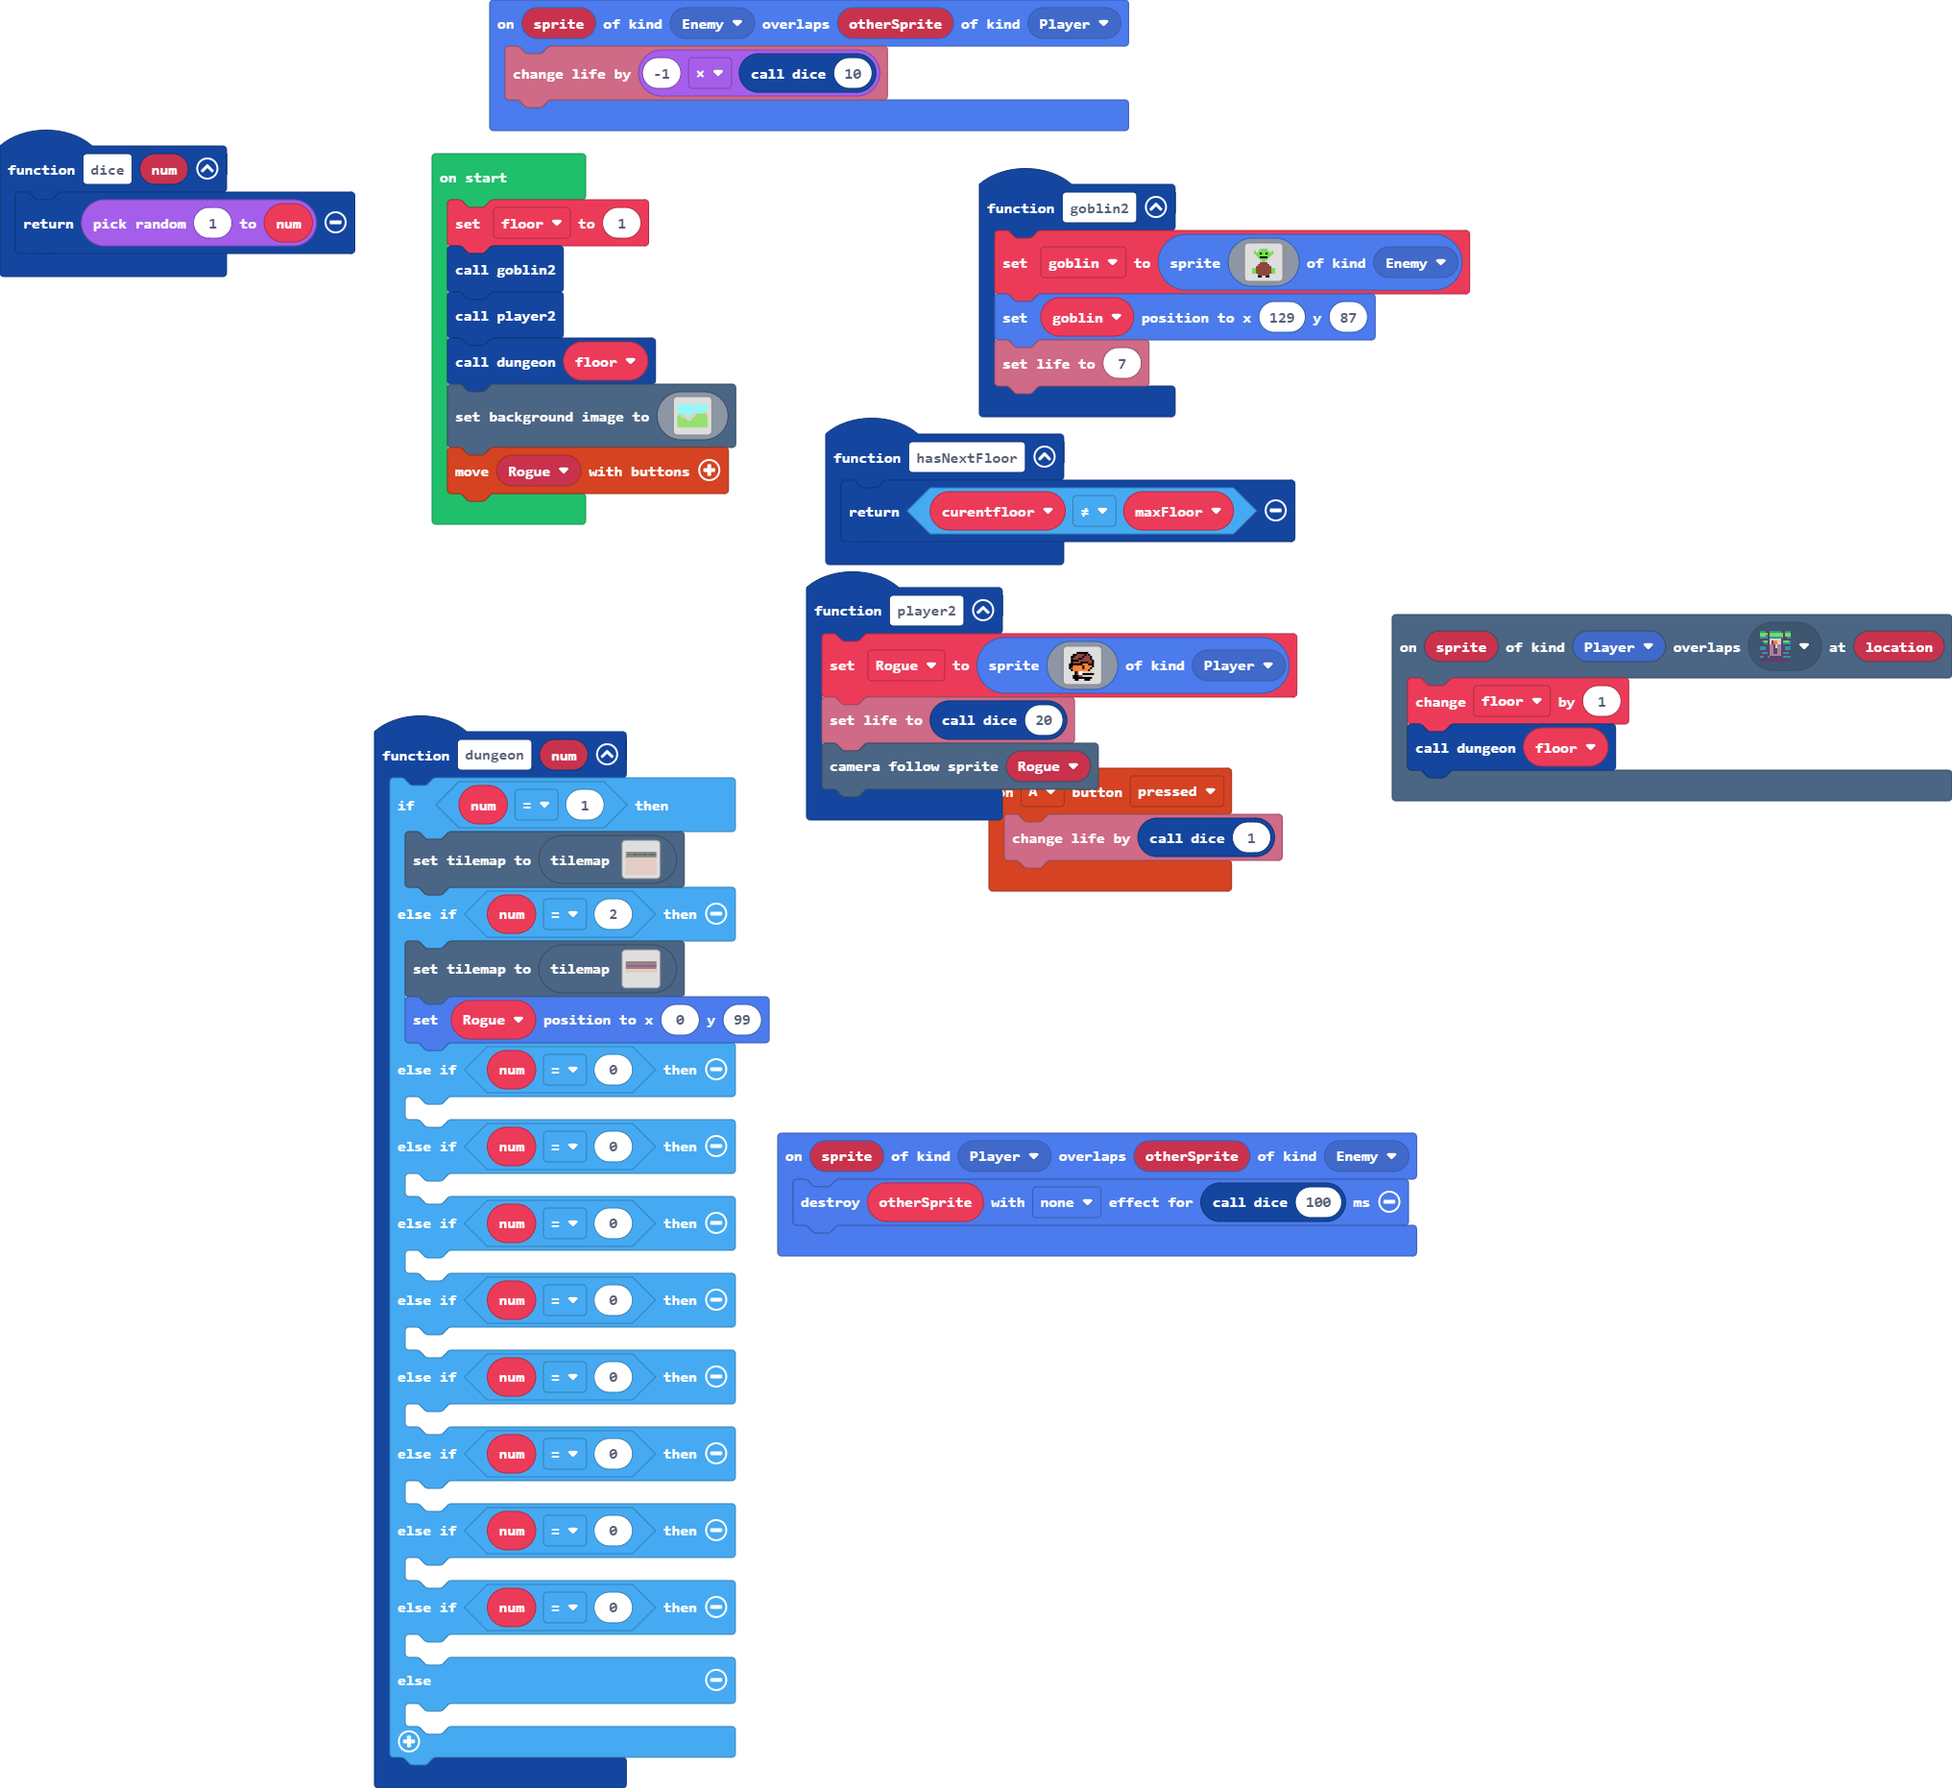
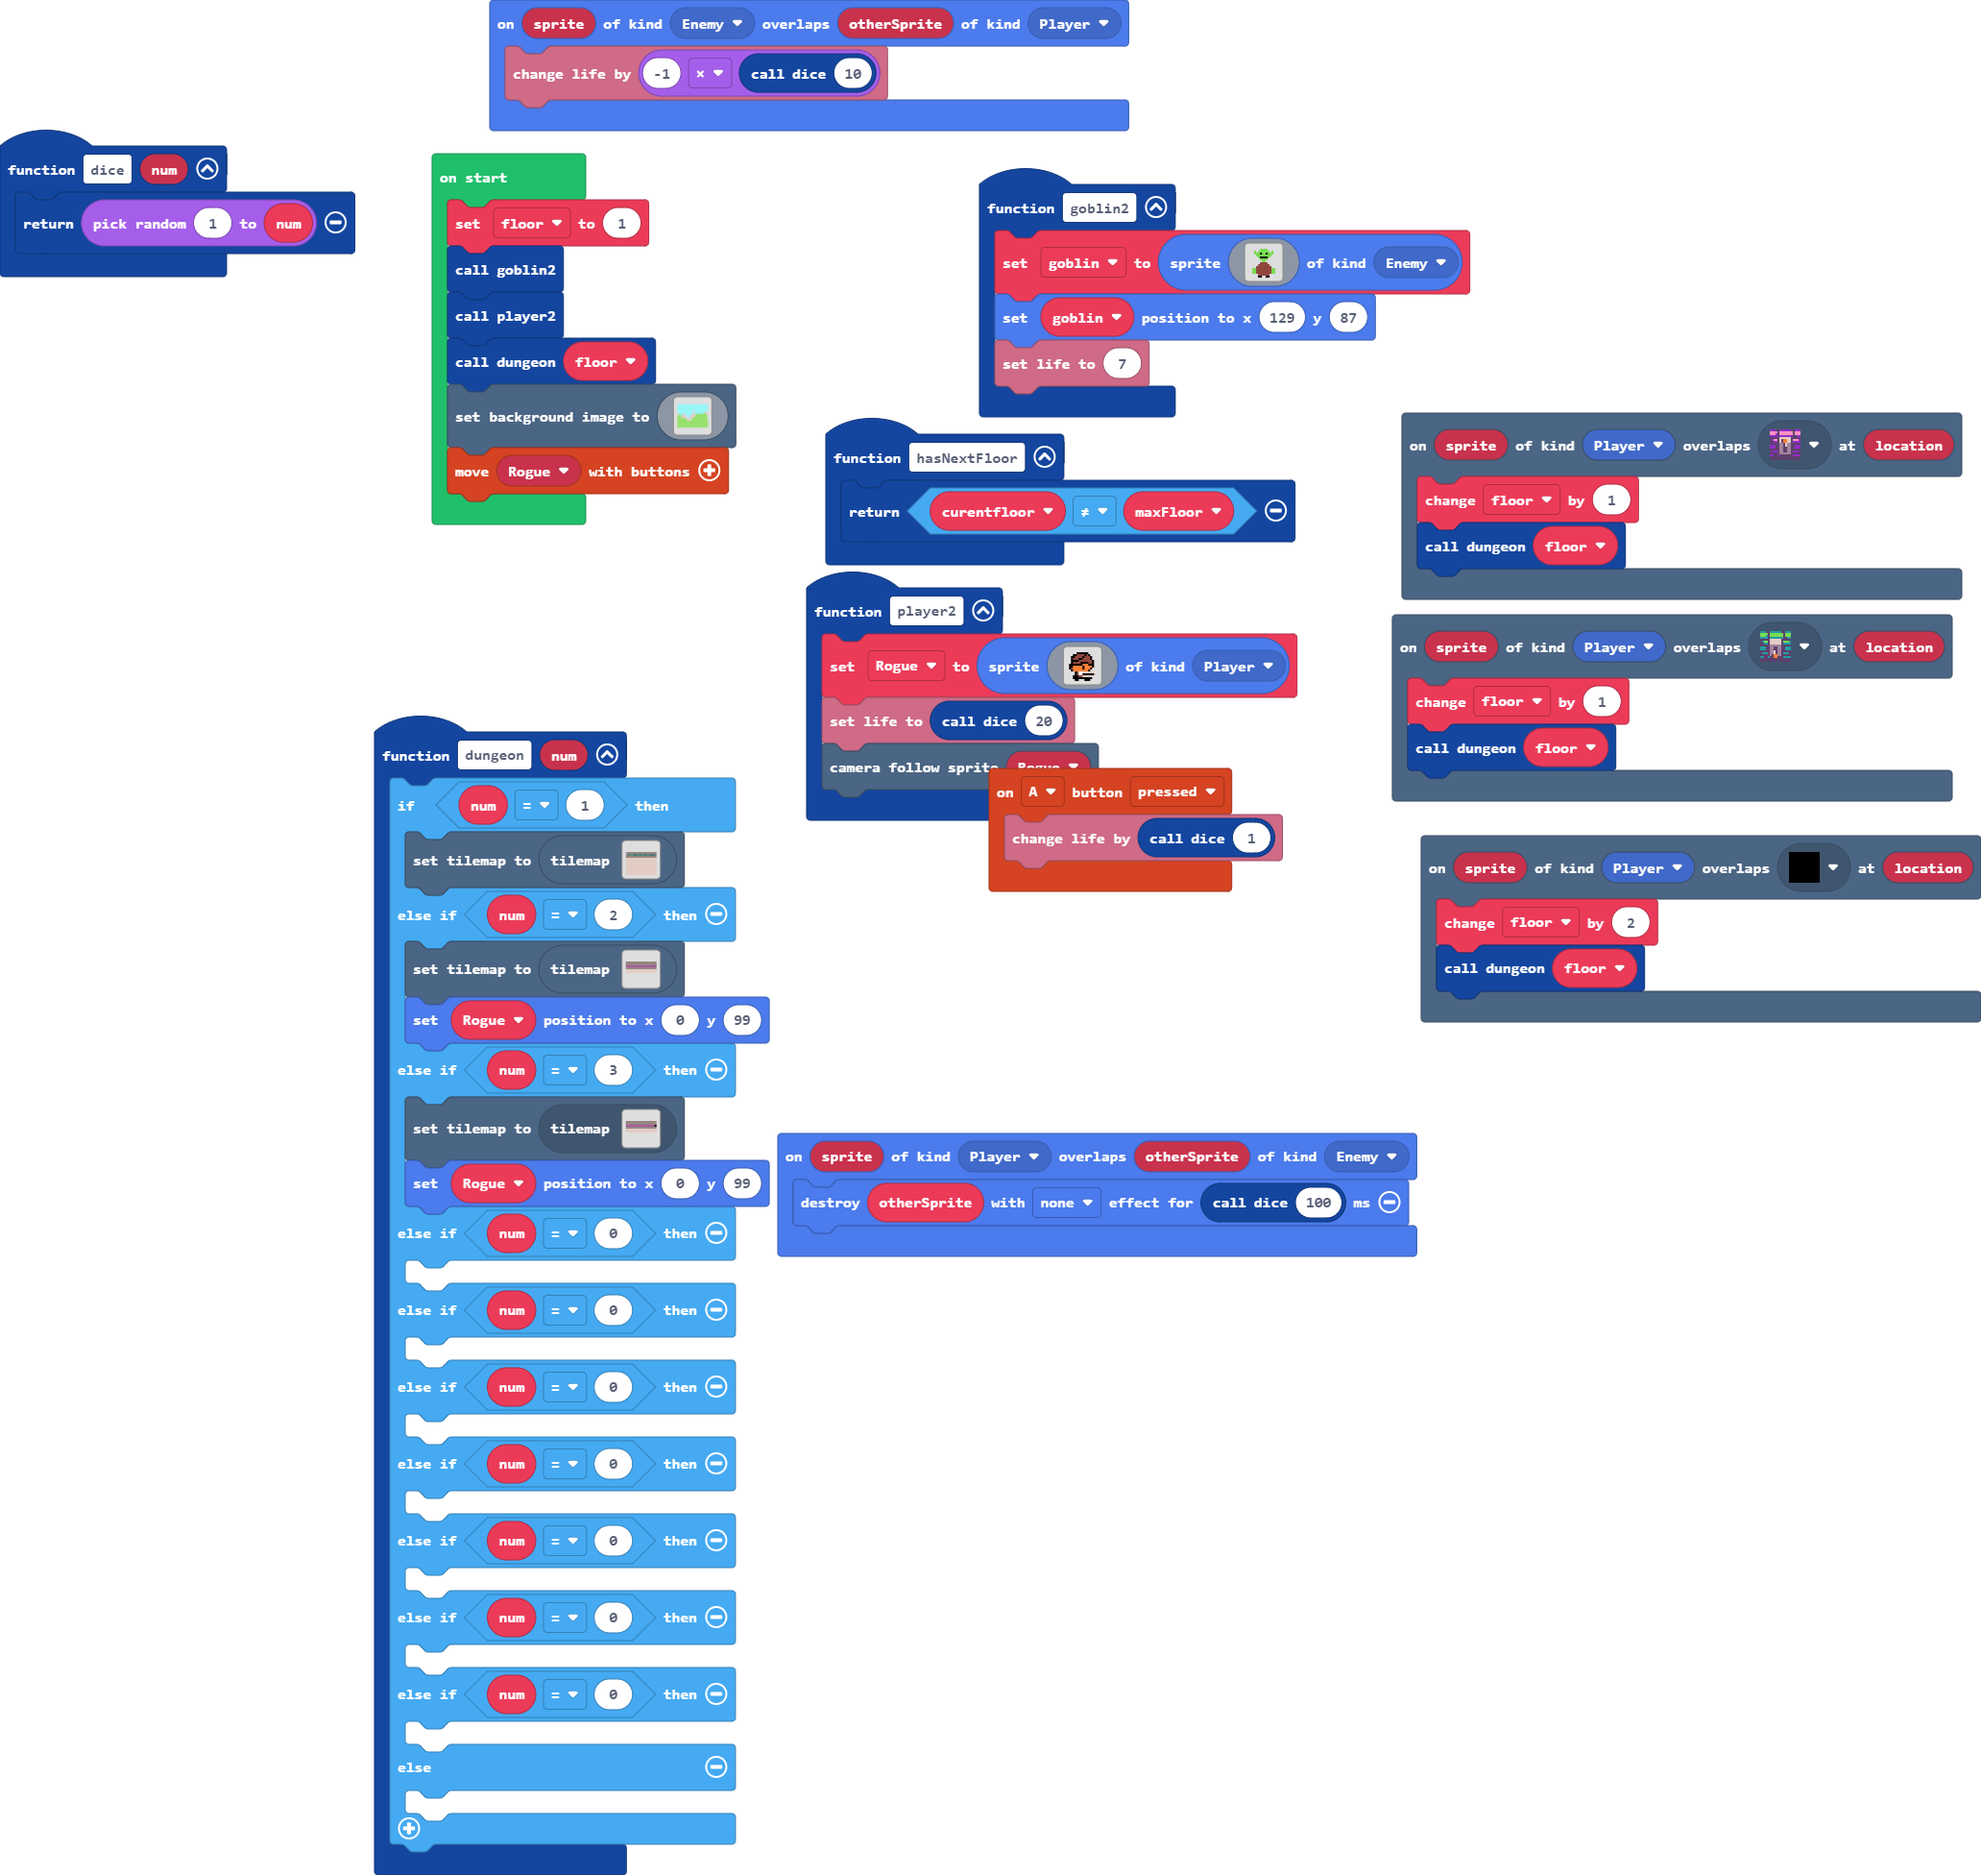
new floor

Changed region(s): [[0.1859, 0.0, 1.0, 1.0], [0.0, 0.0623, 0.1859, 0.1557]]

diff --git a/tilemap.g.ts b/tilemap.g.ts
@@ -32,6 +32,8 @@ namespace myTiles {
     export const tile14 = image.ofBuffer(hex``);
     //% fixedInstance jres blockIdentity=images._tile
     export const tile15 = image.ofBuffer(hex``);
+    //% fixedInstance jres blockIdentity=images._tile
+    export const tile16 = image.ofBuffer(hex``);
 
     helpers._registerFactory("tilemap", function(name: string) {
         switch(helpers.stringTrim(name)) {
@@ -111,44 +113,6 @@ namespace myTiles {
 . . . . . . . . . . . . . . . . 
 . . . . . . . . . . . . . . . . 
 `, [myTiles.transparency16], TileScale.Sixteen);
-            case "level4":
-            case "level4":return tiles.createTilemap(hex`1000100000000000000000000000000000000000000000000000000000000000000000000000000000000000000000000000000000000000000000000000000000000000010101010101010101010101010101010101010101010101010101010101010102020202020202020202020202020203010101010101010101010101010101010404040404040404040404040404040404040404040404040404040404040404000000000000000000000000000000000000000000000000000000000000000000000000000000000000000000000000000000000000000000000000000000000000000000000000000000000000000000000000000000000000000000000000`, img`
-. . . . . . . . . . . . . . . . 
-. . . . . . . . . . . . . . . . 
-. . . . . . . . . . . . . . . . 
-. . . . . . . . . . . . . . . . 
-2 2 2 2 2 2 2 2 2 2 2 2 2 2 2 2 
-2 2 2 2 2 2 2 2 2 2 2 2 2 2 2 2 
-. . . . . . . . . . . . . . . . 
-2 2 2 2 2 2 2 2 2 2 2 2 2 2 2 2 
-2 2 2 2 2 2 2 2 2 2 2 2 2 2 2 2 
-2 2 2 2 2 2 2 2 2 2 2 2 2 2 2 2 
-2 2 2 2 2 2 2 2 2 2 2 2 2 2 2 2 
-2 2 2 2 2 2 2 2 2 2 2 2 2 2 2 2 
-2 2 2 2 2 2 2 2 2 2 2 2 2 2 2 2 
-2 2 2 2 2 2 2 2 2 2 2 2 2 2 2 2 
-2 2 2 2 2 2 2 2 2 2 2 2 2 2 2 2 
-2 2 2 2 2 2 2 2 2 2 2 2 2 2 2 2 
-`, [myTiles.transparency16,myTiles.tile1,myTiles.tile11,myTiles.tile13,sprites.castle.tilePath5], TileScale.Sixteen);
-            case "level1":
-            case "level1":return tiles.createTilemap(hex`1000100000000000000000000000000000000000000000000000000000000000000000000000000000000000000000000000000000000000000000000000000000000000060101010101010101010101010101010703050503030503050303050303030401010101010101010101010101010101020202020202020202020202020202020202020202020202020202020202020202020202020202020202020202020202020202020202020202020202020202020202020202020202020202020202020202020202020202020202020202020202020202020202020202020202020202020202020202020202020202020202020202020202020202020202020202020202`, img`
-2 2 2 2 2 2 2 2 2 2 2 2 2 2 2 2 
-2 2 2 2 2 2 2 2 2 2 2 2 2 2 2 2 
-2 2 2 2 2 2 2 2 2 2 2 2 2 2 2 2 
-. . . . . . . . . . . . . . . . 
-. 2 2 2 2 2 2 2 2 2 2 2 2 2 2 2 
-. . . . . . . . . . . . . . . . 
-2 2 2 2 2 2 2 2 2 2 2 2 2 2 2 2 
-2 2 2 2 2 2 2 2 2 2 2 2 2 2 2 2 
-2 2 2 2 2 2 2 2 2 2 2 2 2 2 2 2 
-2 2 2 2 2 2 2 2 2 2 2 2 2 2 2 2 
-2 2 2 2 2 2 2 2 2 2 2 2 2 2 2 2 
-2 2 2 2 2 2 2 2 2 2 2 2 2 2 2 2 
-2 2 2 2 2 2 2 2 2 2 2 2 2 2 2 2 
-2 2 2 2 2 2 2 2 2 2 2 2 2 2 2 2 
-2 2 2 2 2 2 2 2 2 2 2 2 2 2 2 2 
-2 2 2 2 2 2 2 2 2 2 2 2 2 2 2 2 
-`, [myTiles.transparency16,myTiles.tile1,sprites.castle.tilePath5,myTiles.tile5,myTiles.tile7,myTiles.tile9,myTiles.tile14,myTiles.tile15], TileScale.Sixteen);
             case "level7":
             case "level7":return tiles.createTilemap(hex`1000100000000000000000000000000000000000000000000000000000000000000000000000000000000000000000000000000000000000000000000000000000000000000000000000000000000000000000000000000000000000000000000000000000000000000000000000000000000000000000000000000000000000000000000000000000000000000000000000000000000000000000000000000000000000000000000000000000000000000000000000000000000000000000000000000000000000000000000000000000000000000000000000000000000000000000000000000000000000000000000000000000000000000000000000000000000000`, img`
 . . . . . . . . . . . . . . . . 
@@ -187,6 +151,101 @@ namespace myTiles {
 . . . . . . . . . . . . . . . . 
 . . . . . . . . . . . . . . . . 
 `, [myTiles.transparency16], TileScale.Sixteen);
+            case "level9":
+            case "level9":return tiles.createTilemap(hex`1000100000000000000000000000000000000000000000000000000000000000000000000000000000000000000000000000000000000000000000000000000000000000000000000000000000000000000000000000000000000000000000000000000000000000000000000000000000000000000000000000000000000000000000000000000000000000000000000000000000000000000000000000000000000000000000000000000000000000000000000000000000000000000000000000000000000000000000000000000000000000000000000000000000000000000000000000000000000000000000000000000000000000000000000000000000000000`, img`
+. . . . . . . . . . . . . . . . 
+. . . . . . . . . . . . . . . . 
+. . . . . . . . . . . . . . . . 
+. . . . . . . . . . . . . . . . 
+. . . . . . . . . . . . . . . . 
+. . . . . . . . . . . . . . . . 
+. . . . . . . . . . . . . . . . 
+. . . . . . . . . . . . . . . . 
+. . . . . . . . . . . . . . . . 
+. . . . . . . . . . . . . . . . 
+. . . . . . . . . . . . . . . . 
+. . . . . . . . . . . . . . . . 
+. . . . . . . . . . . . . . . . 
+. . . . . . . . . . . . . . . . 
+. . . . . . . . . . . . . . . . 
+. . . . . . . . . . . . . . . . 
+`, [myTiles.transparency16], TileScale.Sixteen);
+            case "level4":
+            case "level4":return tiles.createTilemap(hex`1000100000000000000000000000000000000000000000000000000000000000000000000000000000000000000000000000000000000000000000000000000000000000010101010101010101010101010101010101010101010101010101010101010102020202020202020202020202020203010101010101010101010101010101010404040404040404040404040404040404040404040404040404040404040404000000000000000000000000000000000000000000000000000000000000000000000000000000000000000000000000000000000000000000000000000000000000000000000000000000000000000000000000000000000000000000000000`, img`
+2 2 2 2 2 2 2 2 2 2 2 2 2 2 2 2 
+2 2 2 2 2 2 2 2 2 2 2 2 2 2 2 2 
+2 2 2 2 2 2 2 2 2 2 2 2 2 2 2 2 
+2 2 2 2 2 2 2 2 2 2 2 2 2 2 2 2 
+2 2 2 2 2 2 2 2 2 2 2 2 2 2 2 2 
+2 2 2 2 2 2 2 2 2 2 2 2 2 2 2 2 
+. . . . . . . . . . . . . . . . 
+2 2 2 2 2 2 2 2 2 2 2 2 2 2 2 2 
+2 2 2 2 2 2 2 2 2 2 2 2 2 2 2 2 
+2 2 2 2 2 2 2 2 2 2 2 2 2 2 2 2 
+2 2 2 2 2 2 2 2 2 2 2 2 2 2 2 2 
+2 2 2 2 2 2 2 2 2 2 2 2 2 2 2 2 
+2 2 2 2 2 2 2 2 2 2 2 2 2 2 2 2 
+2 2 2 2 2 2 2 2 2 2 2 2 2 2 2 2 
+2 2 2 2 2 2 2 2 2 2 2 2 2 2 2 2 
+2 2 2 2 2 2 2 2 2 2 2 2 2 2 2 2 
+`, [myTiles.transparency16,myTiles.tile1,myTiles.tile11,myTiles.tile13,sprites.castle.tilePath5], TileScale.Sixteen);
+            case "level11":
+            case "level11":return tiles.createTilemap(hex`1000100000000000000000000000000000000000000000000000000000000000000000000000000000000000000000000000000000000000000000000000000000000000000000000000000000000000000000000000000000000000000000000000000000000000000000000000000000000000000000000000000000000000000000000000000000000000000000000000000000000000000000000000000000000000000000000000000000000000000000000000000000000000000000000000000000000000000000000000000000000000000000000000000000000000000000000000000000000000000000000000000000000000000000000000000000000000`, img`
+. . . . . . . . . . . . . . . . 
+. . . . . . . . . . . . . . . . 
+. . . . . . . . . . . . . . . . 
+. . . . . . . . . . . . . . . . 
+. . . . . . . . . . . . . . . . 
+. . . . . . . . . . . . . . . . 
+. . . . . . . . . . . . . . . . 
+. . . . . . . . . . . . . . . . 
+. . . . . . . . . . . . . . . . 
+. . . . . . . . . . . . . . . . 
+. . . . . . . . . . . . . . . . 
+. . . . . . . . . . . . . . . . 
+. . . . . . . . . . . . . . . . 
+. . . . . . . . . . . . . . . . 
+. . . . . . . . . . . . . . . . 
+. . . . . . . . . . . . . . . . 
+`, [myTiles.transparency16], TileScale.Sixteen);
+            case "level0":
+            case "level10":return tiles.createTilemap(hex`1000100000000000000000000000000000000000000000000000000000000000000000000000000000000000000000000000000000000000000000000000000000000000010101010101010101010101010101010101010101010101010101010101010102020202020202020202020202020204010101010101010101010101010101010303030303030303030303030303030303030303030303030303030303030303000000000000000000000000000000000000000000000000000000000000000000000000000000000000000000000000000000000000000000000000000000000000000000000000000000000000000000000000000000000000000000000000`, img`
+2 2 2 2 2 2 2 2 2 2 2 2 2 2 2 2 
+2 2 2 2 2 2 2 2 2 2 2 2 2 2 2 2 
+2 2 2 2 2 2 2 2 2 2 2 2 2 2 2 2 
+2 2 2 2 2 2 2 2 2 2 2 2 2 2 2 2 
+2 2 2 2 2 2 2 2 2 2 2 2 2 2 2 2 
+2 2 2 2 2 2 2 2 2 2 2 2 2 2 2 2 
+. . . . . . . . . . . . . . . . 
+2 2 2 2 2 2 2 2 2 2 2 2 2 2 2 2 
+2 2 2 2 2 2 2 2 2 2 2 2 2 2 2 2 
+2 2 2 2 2 2 2 2 2 2 2 2 2 2 2 2 
+2 2 2 2 2 2 2 2 2 2 2 2 2 2 2 2 
+2 2 2 2 2 2 2 2 2 2 2 2 2 2 2 2 
+2 2 2 2 2 2 2 2 2 2 2 2 2 2 2 2 
+2 2 2 2 2 2 2 2 2 2 2 2 2 2 2 2 
+2 2 2 2 2 2 2 2 2 2 2 2 2 2 2 2 
+2 2 2 2 2 2 2 2 2 2 2 2 2 2 2 2 
+`, [myTiles.transparency16,myTiles.tile1,myTiles.tile11,sprites.castle.tilePath5,sprites.builtin.forestTiles10], TileScale.Sixteen);
+            case "level1":
+            case "level1":return tiles.createTilemap(hex`1000100000000000000000000000000000000000000000000000000000000000000000000000000000000000000000000000000000000000000000000000000000000000050101010101010101010101010101010603040403030403040303040303030701010101010101010101010101010101020202020202020202020202020202020202020202020202020202020202020202020202020202020202020202020202020202020202020202020202020202020202020202020202020202020202020202020202020202020202020202020202020202020202020202020202020202020202020202020202020202020202020202020202020202020202020202020202`, img`
+2 2 2 2 2 2 2 2 2 2 2 2 2 2 2 2 
+2 2 2 2 2 2 2 2 2 2 2 2 2 2 2 2 
+2 2 2 2 2 2 2 2 2 2 2 2 2 2 2 2 
+. . . . . . . . . . . . . . . . 
+. 2 2 2 2 2 2 2 2 2 2 2 2 2 2 2 
+. . . . . . . . . . . . . . . . 
+2 2 2 2 2 2 2 2 2 2 2 2 2 2 2 2 
+2 2 2 2 2 2 2 2 2 2 2 2 2 2 2 2 
+2 2 2 2 2 2 2 2 2 2 2 2 2 2 2 2 
+2 2 2 2 2 2 2 2 2 2 2 2 2 2 2 2 
+2 2 2 2 2 2 2 2 2 2 2 2 2 2 2 2 
+2 2 2 2 2 2 2 2 2 2 2 2 2 2 2 2 
+2 2 2 2 2 2 2 2 2 2 2 2 2 2 2 2 
+2 2 2 2 2 2 2 2 2 2 2 2 2 2 2 2 
+2 2 2 2 2 2 2 2 2 2 2 2 2 2 2 2 
+2 2 2 2 2 2 2 2 2 2 2 2 2 2 2 2 
+`, [myTiles.transparency16,myTiles.tile1,sprites.castle.tilePath5,myTiles.tile5,myTiles.tile9,myTiles.tile14,myTiles.tile15,sprites.dungeon.greenSwitchDown], TileScale.Sixteen);
         }
         return null;
     })
@@ -224,6 +283,8 @@ namespace myTiles {
             case "tile14":return tile14;
             case "myTile12":
             case "tile15":return tile15;
+            case "myTile13":
+            case "tile16":return tile16;
         }
         return null;
     })

diff --git a/main.ts b/main.ts
@@ -4,8 +4,9 @@ function dungeon (num: number) {
     } else if (num == 2) {
         tiles.setCurrentTilemap(tilemap`level4`)
         Rogue.setPosition(0, 99)
-    } else if (num == 0) {
-    	
+    } else if (num == 3) {
+        tiles.setCurrentTilemap(tilemap`level0`)
+        Rogue.setPosition(0, 99)
     } else if (num == 0) {
     	
     } else if (num == 0) {
@@ -24,11 +25,15 @@ function dungeon (num: number) {
     	
     }
 }
+scene.onOverlapTile(SpriteKind.Player, assets.tile`myTile13`, function (sprite, location) {
+    floor += 1
+    dungeon(floor)
+})
 controller.A.onEvent(ControllerButtonEvent.Pressed, function () {
     info.changeLifeBy(dice(1))
 })
-scene.onOverlapTile(SpriteKind.Player, assets.tile`myTile4`, function (sprite, location) {
-    floor += 1
+scene.onOverlapTile(SpriteKind.Player, sprites.builtin.forestTiles10, function (sprite, location) {
+    floor += 2
     dungeon(floor)
 })
 function hasNextFloor () {
@@ -52,6 +57,10 @@ function player2 () {
     info.setLife(dice(20))
     scene.cameraFollowSprite(Rogue)
 }
+scene.onOverlapTile(SpriteKind.Player, assets.tile`myTile10`, function (sprite, location) {
+    floor += 1
+    dungeon(floor)
+})
 sprites.onOverlap(SpriteKind.Player, SpriteKind.Enemy, function (sprite, otherSprite) {
     sprites.destroy(otherSprite, effects.none, dice(100))
 })
